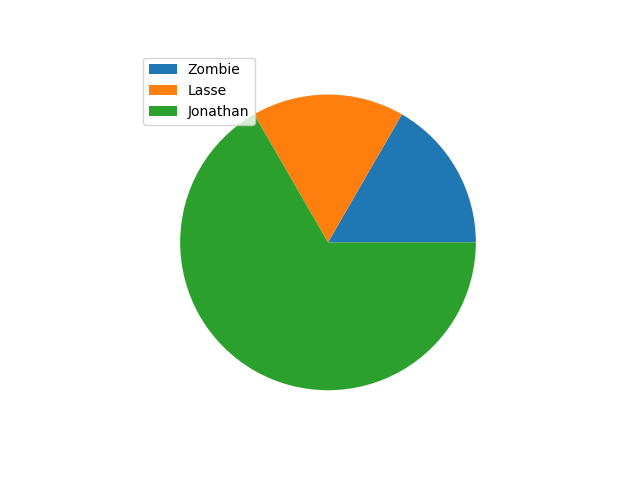
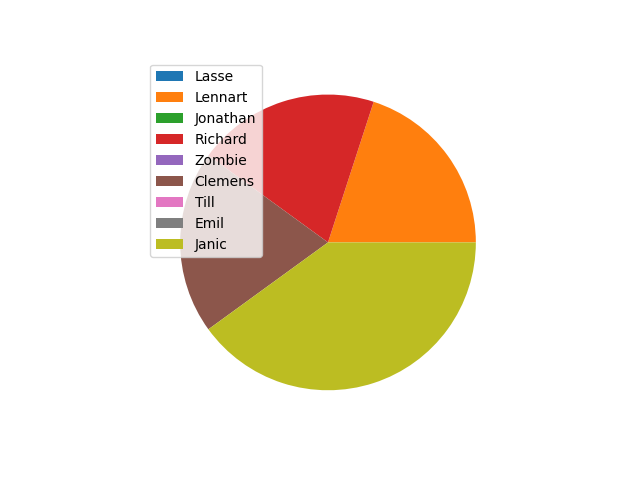
all gud

Changed region(s): [[0.2188, 0.125, 0.75, 0.8125]]

diff --git a/main.py b/main.py
@@ -6,6 +6,7 @@ from discord.ext import commands, tasks
 from datetime import datetime, timedelta
 from Database import *
 import os
+from bson import errors
 
 INDIC = ">"
 client = Client()
@@ -25,45 +26,59 @@ async def send_as_piechart(id, channel_id):
         await client.get_channel(channel_id).send(file=f)
         f.close()    
 
-@tasks.loop(hours=12)
-async def send_chart():
-    if running() == None:
-       return
-    else:
-        for i in running():
-            send_as_piechart(i)
+
+async def send_poll(id, channel):  
+        poll = getPoll(id)
+
+        send_msg = poll["title"] + "\n" + poll["text"] + "\nDeadline: " + datetime.strftime(poll["deadline"], '%d/%m/%Y %H:%M' + "\n" + "Poll id: "+ str(poll["_id"]))
+
+        await channel.send(send_msg)
+        await send_as_piechart(id, channel.id)
+
+#vllt später
+# @tasks.loop(hours=12)
+# async def send_chart():
+#     if running() == None:
+#        return
+#     else:
+#         for i in running():
+#             send_as_piechart(i)
         
 async def handle_private_msg(message):
     cmd: str = message.content.replace(INDIC, "")
 
-    # if cmd.startswith("show"):
-    #     x = 0
-    #     for i in running():
-    #         x += 1
-    #         send_as_piechart(i)
-    #         await message.channel.send(getPoll(i))
+    if cmd.startswith("vote"):
+        splitted = cmd.split(" ")
+        if len(splitted) == 3:
+            id = splitted[1]
+            vote = splitted[2]
+            try:
+                poll = getPoll(id)
 
-            # hier nachricht vom user awaiten und dann add_vote aufrufen
+                for i in poll["competitors"]:
+                    if message.author.name in poll[i]:
+                        await message.channel.send("You already voted!")
+                        return
+                
+                if vote not in poll["competitors"]:
+                    await message.channel.send("Invalid vote choice.")
+                    return
 
-async def handle_server_msg(message):
-    cmd: str = message.content.replace(INDIC, "")
+                ret = addVote(id, vote, message.author.name)
+                if ret == "Success":
+                    await message.channel.send("Success!")
+                else:
+                    await message.channel.send("Datenbank hat nicht geantwortet. Schreib mal Hanns Eisler, der fixt das.")
 
-    if cmd.startswith("running"):
-        for i in running():
-            poll = getPoll(i)
+            except errors.InvalidId:
+                await message.channel.send("Invalid poll id.")
+            except KeyError:
+                await message.channel.send("Invalid vote choice.")
+            except:
+                await message.channel.send("Unknown error. Schreib mal Hanns Eisler, der fixt das.")
 
-            send_msg = poll["title"] + "\n" + poll["text"] + "\nDeadline: " + datetime.strftime(poll["deadline"], '%d/%m/%Y %H:%M')
-
-            await message.channel.send(send_msg)
-            await send_as_piechart(i, message.channel.id)
-            
-
-    #muss raus
-    await handle_admin_cmd(message)
-
-    for r in message.author.roles:
-        if r.id == 773996048094986241 or r.id == 773993684651212812:
-            await handle_admin_cmd(message)
+        else:
+            await message.channel.send("Vote command must have two parameters.")
 
 async def handle_admin_cmd(message):
     cmd: str = message.content.replace(INDIC, "")
@@ -72,6 +87,7 @@ async def handle_admin_cmd(message):
         await message.channel.send("Command to create new poll: \n '>new [Option 1, Option 2, usw.] \"Title\" \"Text describing the vote.\" x' where x is the length in hours the poll should run")
 
     elif cmd.startswith("new"):
+        # hier noch checken ob len richtig ist und sanitizen
         splitted = cmd.split("\"")
         title = splitted[1]
         text = splitted[3]
@@ -83,13 +99,44 @@ async def handle_admin_cmd(message):
         createPoll(text, title, "multi", list(map(lambda x: x.strip(), teilnehmer)), int(hours))
 
     elif cmd.startswith("delete"):
-        poll_id = cmd.split(" ")[1]
+        splitted = cmd.split(" ")
 
-        # delete call machen
+        if len(splitted) == 2:
+            try:
+                ret = deletePoll(splitted[1])
+
+                if ret == "Success":
+                    await message.channel.send("Success!")
+                else:
+                    await message.channel.send("Datenbank hat nicht geantwortet. Schreib mal Hanns Eisler, der fixt das.")
+
+
+            except errors.InvalidId:
+                await message.channel.send("Invalid poll id.")
+
+        else:
+            await message.channel.send("Delete command needs two parameters!")
+
+    # elif cmd.startswith("sos"):
+    #     msgs = await message.channel.history(limit=50).flatten()
+    #     for i in msgs:
+    #         await i.delete()
+    #     print("Finished")
+
+async def handle_server_msg(message):
+    cmd: str = message.content.replace(INDIC, "")
+
+    #muss raus
+    await handle_admin_cmd(message)
+
+    for r in message.author.roles:
+        if r.id == 773996048094986241 or r.id == 773993684651212812:
+            await handle_admin_cmd(message)
 
 @client.event
 async def on_message(message):
     author: Member = message.author
+    cmd: str = message.content.replace(INDIC, "")
 
     if author == client.user:
         return
@@ -97,12 +144,15 @@ async def on_message(message):
     if not message.content.startswith(INDIC):
         return
 
+    if cmd.startswith("running"):
+        for i in running():
+            await send_poll(i, message.channel)
+
     # private channel
     if str(message.channel.type) == "private":
         await handle_private_msg(message)
     # server
     else:
         await handle_server_msg(message)
-
 
 client.run(TOKEN)

diff --git a/Database.py b/Database.py
@@ -2,9 +2,10 @@ import certifi
 from pymongo import MongoClient
 from datetime import datetime, timedelta
 from bson.objectid import ObjectId
+from TOKEN import database_token
 
 def Connect():
-    connection_string = "mongodb+srv://adim:WknSllcgkPnBuuR1@cluster0.uw8iy.mongodb.net/Discord?retryWrites=true&w=majority"
+    connection_string = database_token
     client  = MongoClient(connection_string, tlsCAFile=certifi.where())
     db = client['Discord']
     Events = db.Event
@@ -24,11 +25,12 @@ def createPoll(text,title,pollType,competitors,deadline):
         for i in range(len(competitors)):
             Event_single[competitors[i]]=[]
     Events.insert_one(Event_single)
+    return "Success"
 
 def addVote(id,vote,name):
     Events=Connect();
     Events.update_one({"_id" :ObjectId(id)},{"$push":{vote:name}})
-    return("sucessfull")
+    return("Success")
 
 
 def getPoll(id):
@@ -51,6 +53,3 @@ def running():
         if i['deadline'] > datetime.utcnow():
             runningPolls.append(i['_id'])
     return runningPolls
-#running()
-#addVote("6204fa9bb6436cbdfc1c9e8d","Jasmin","du")
-#createPoll("text","title","multi",["Zombie", "Jasmin","Olaf","Clemens"],9)S
